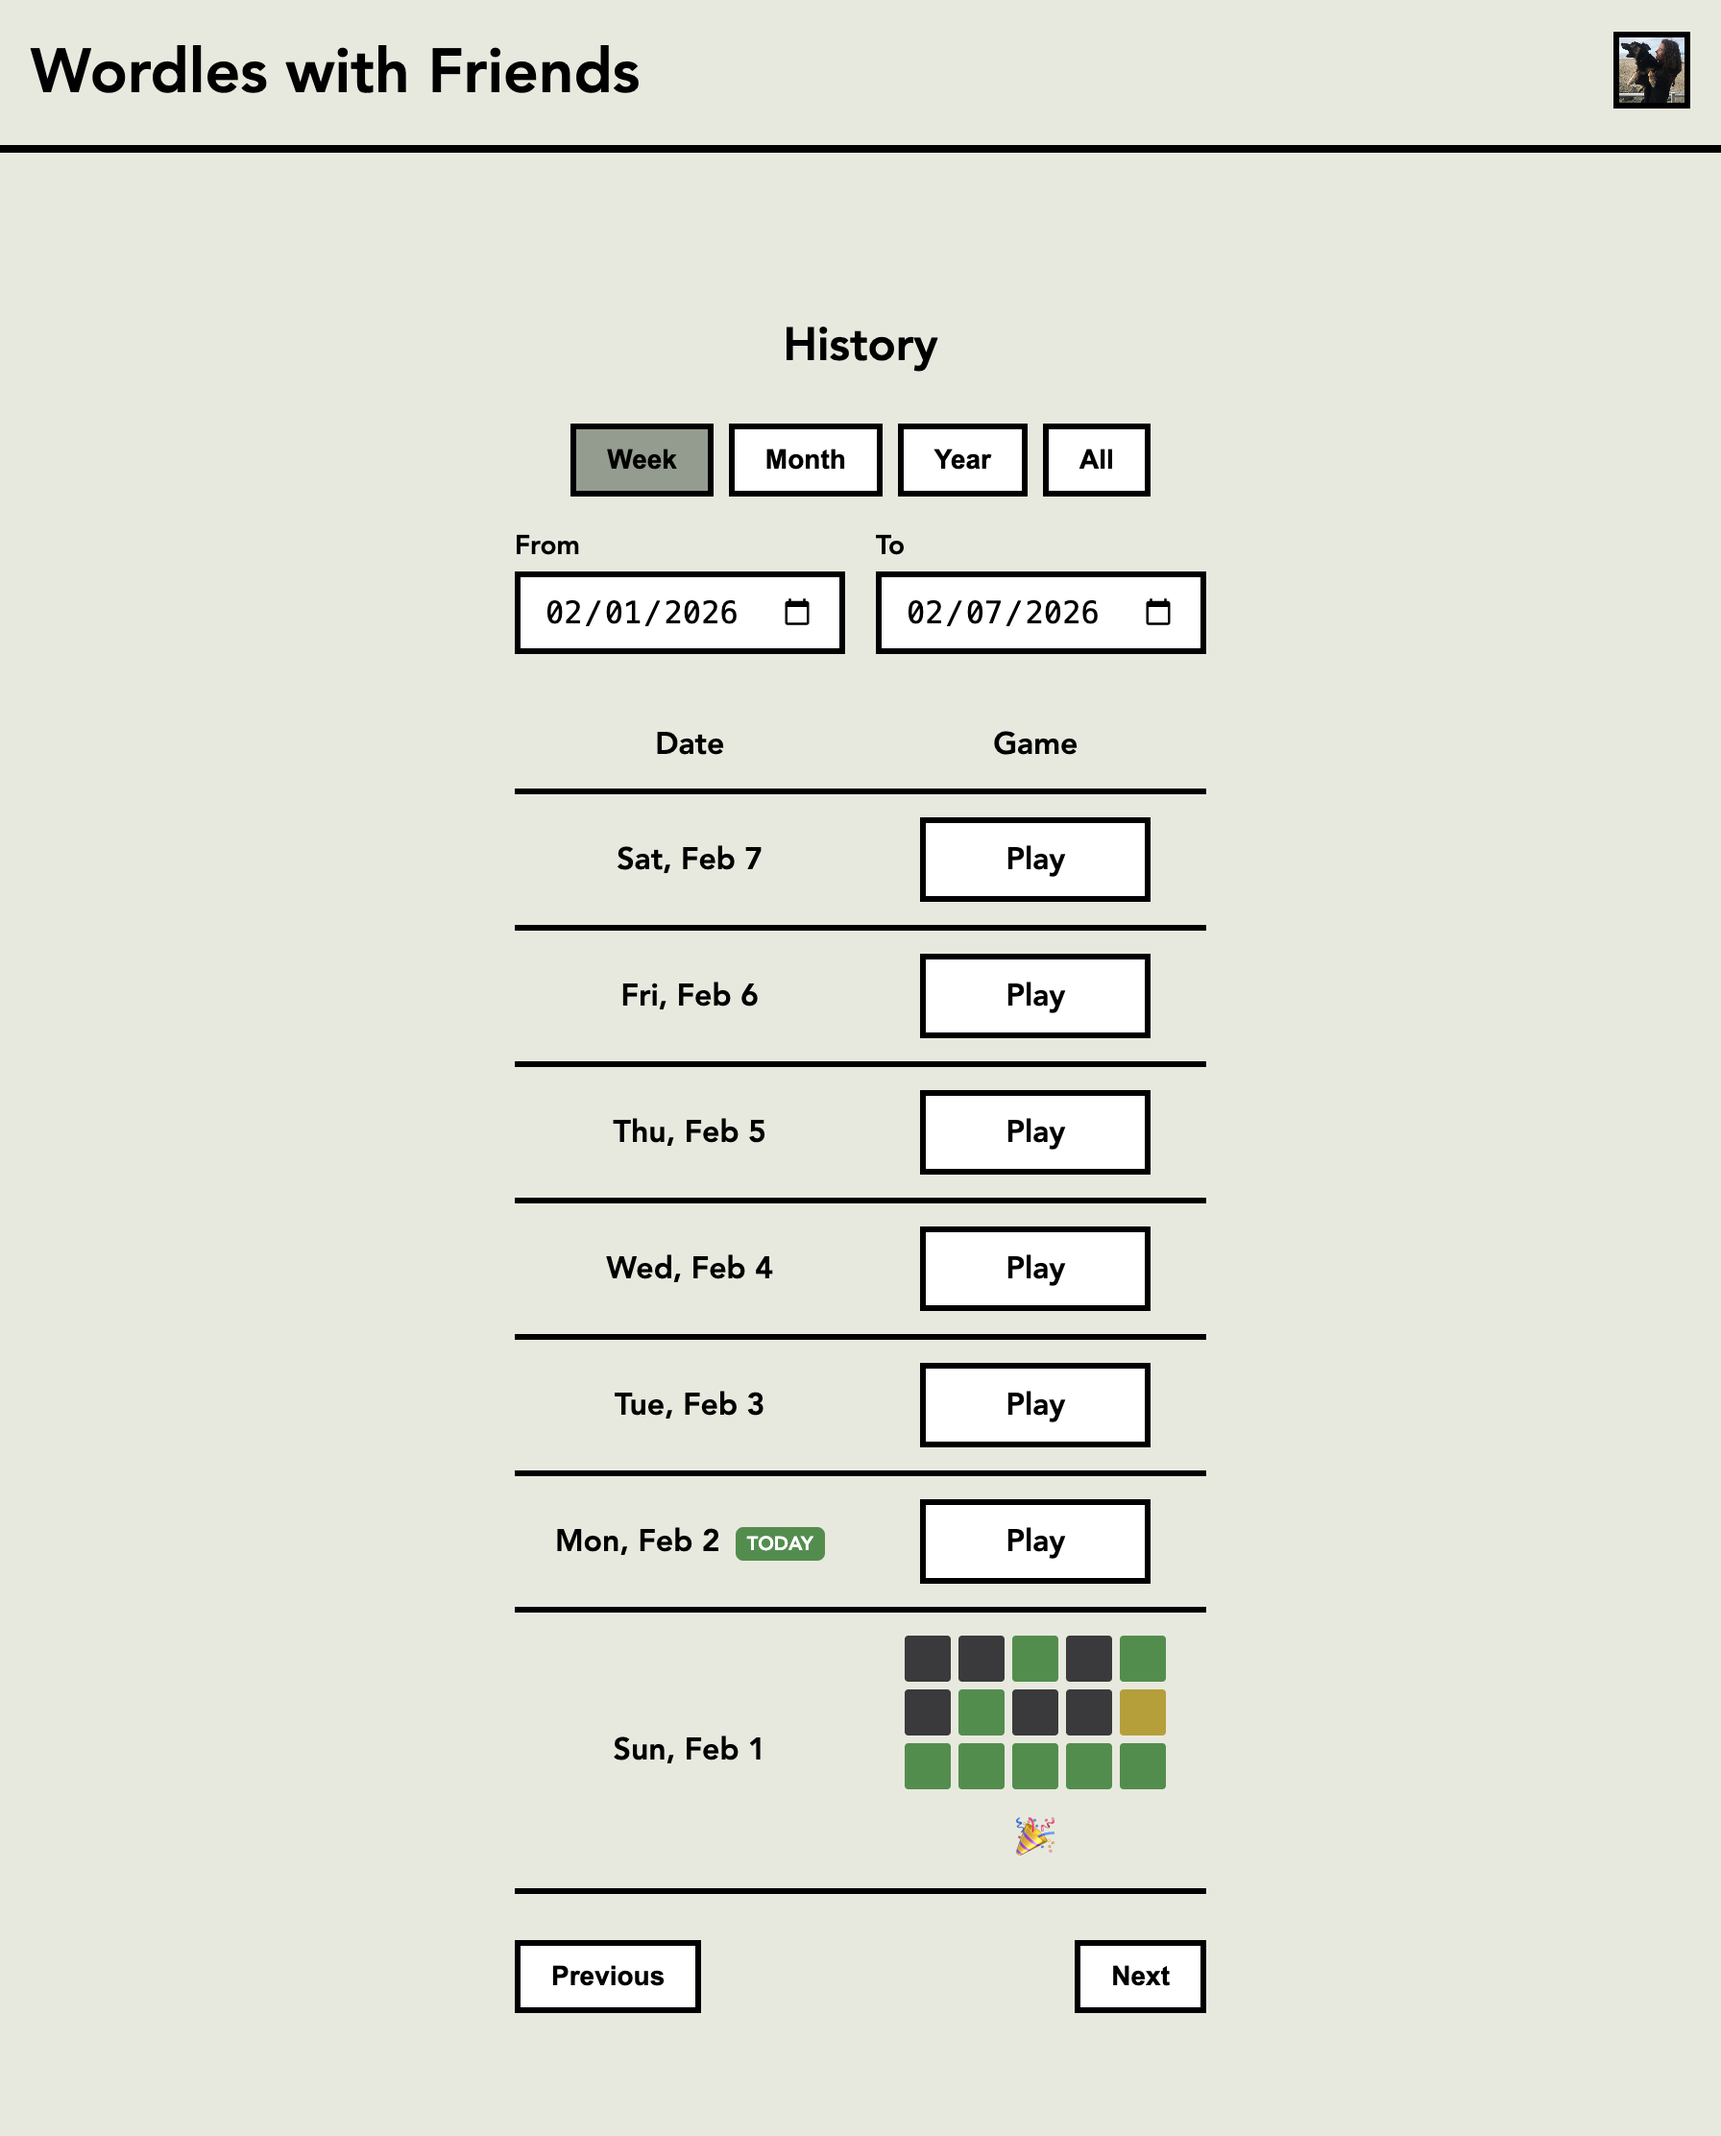
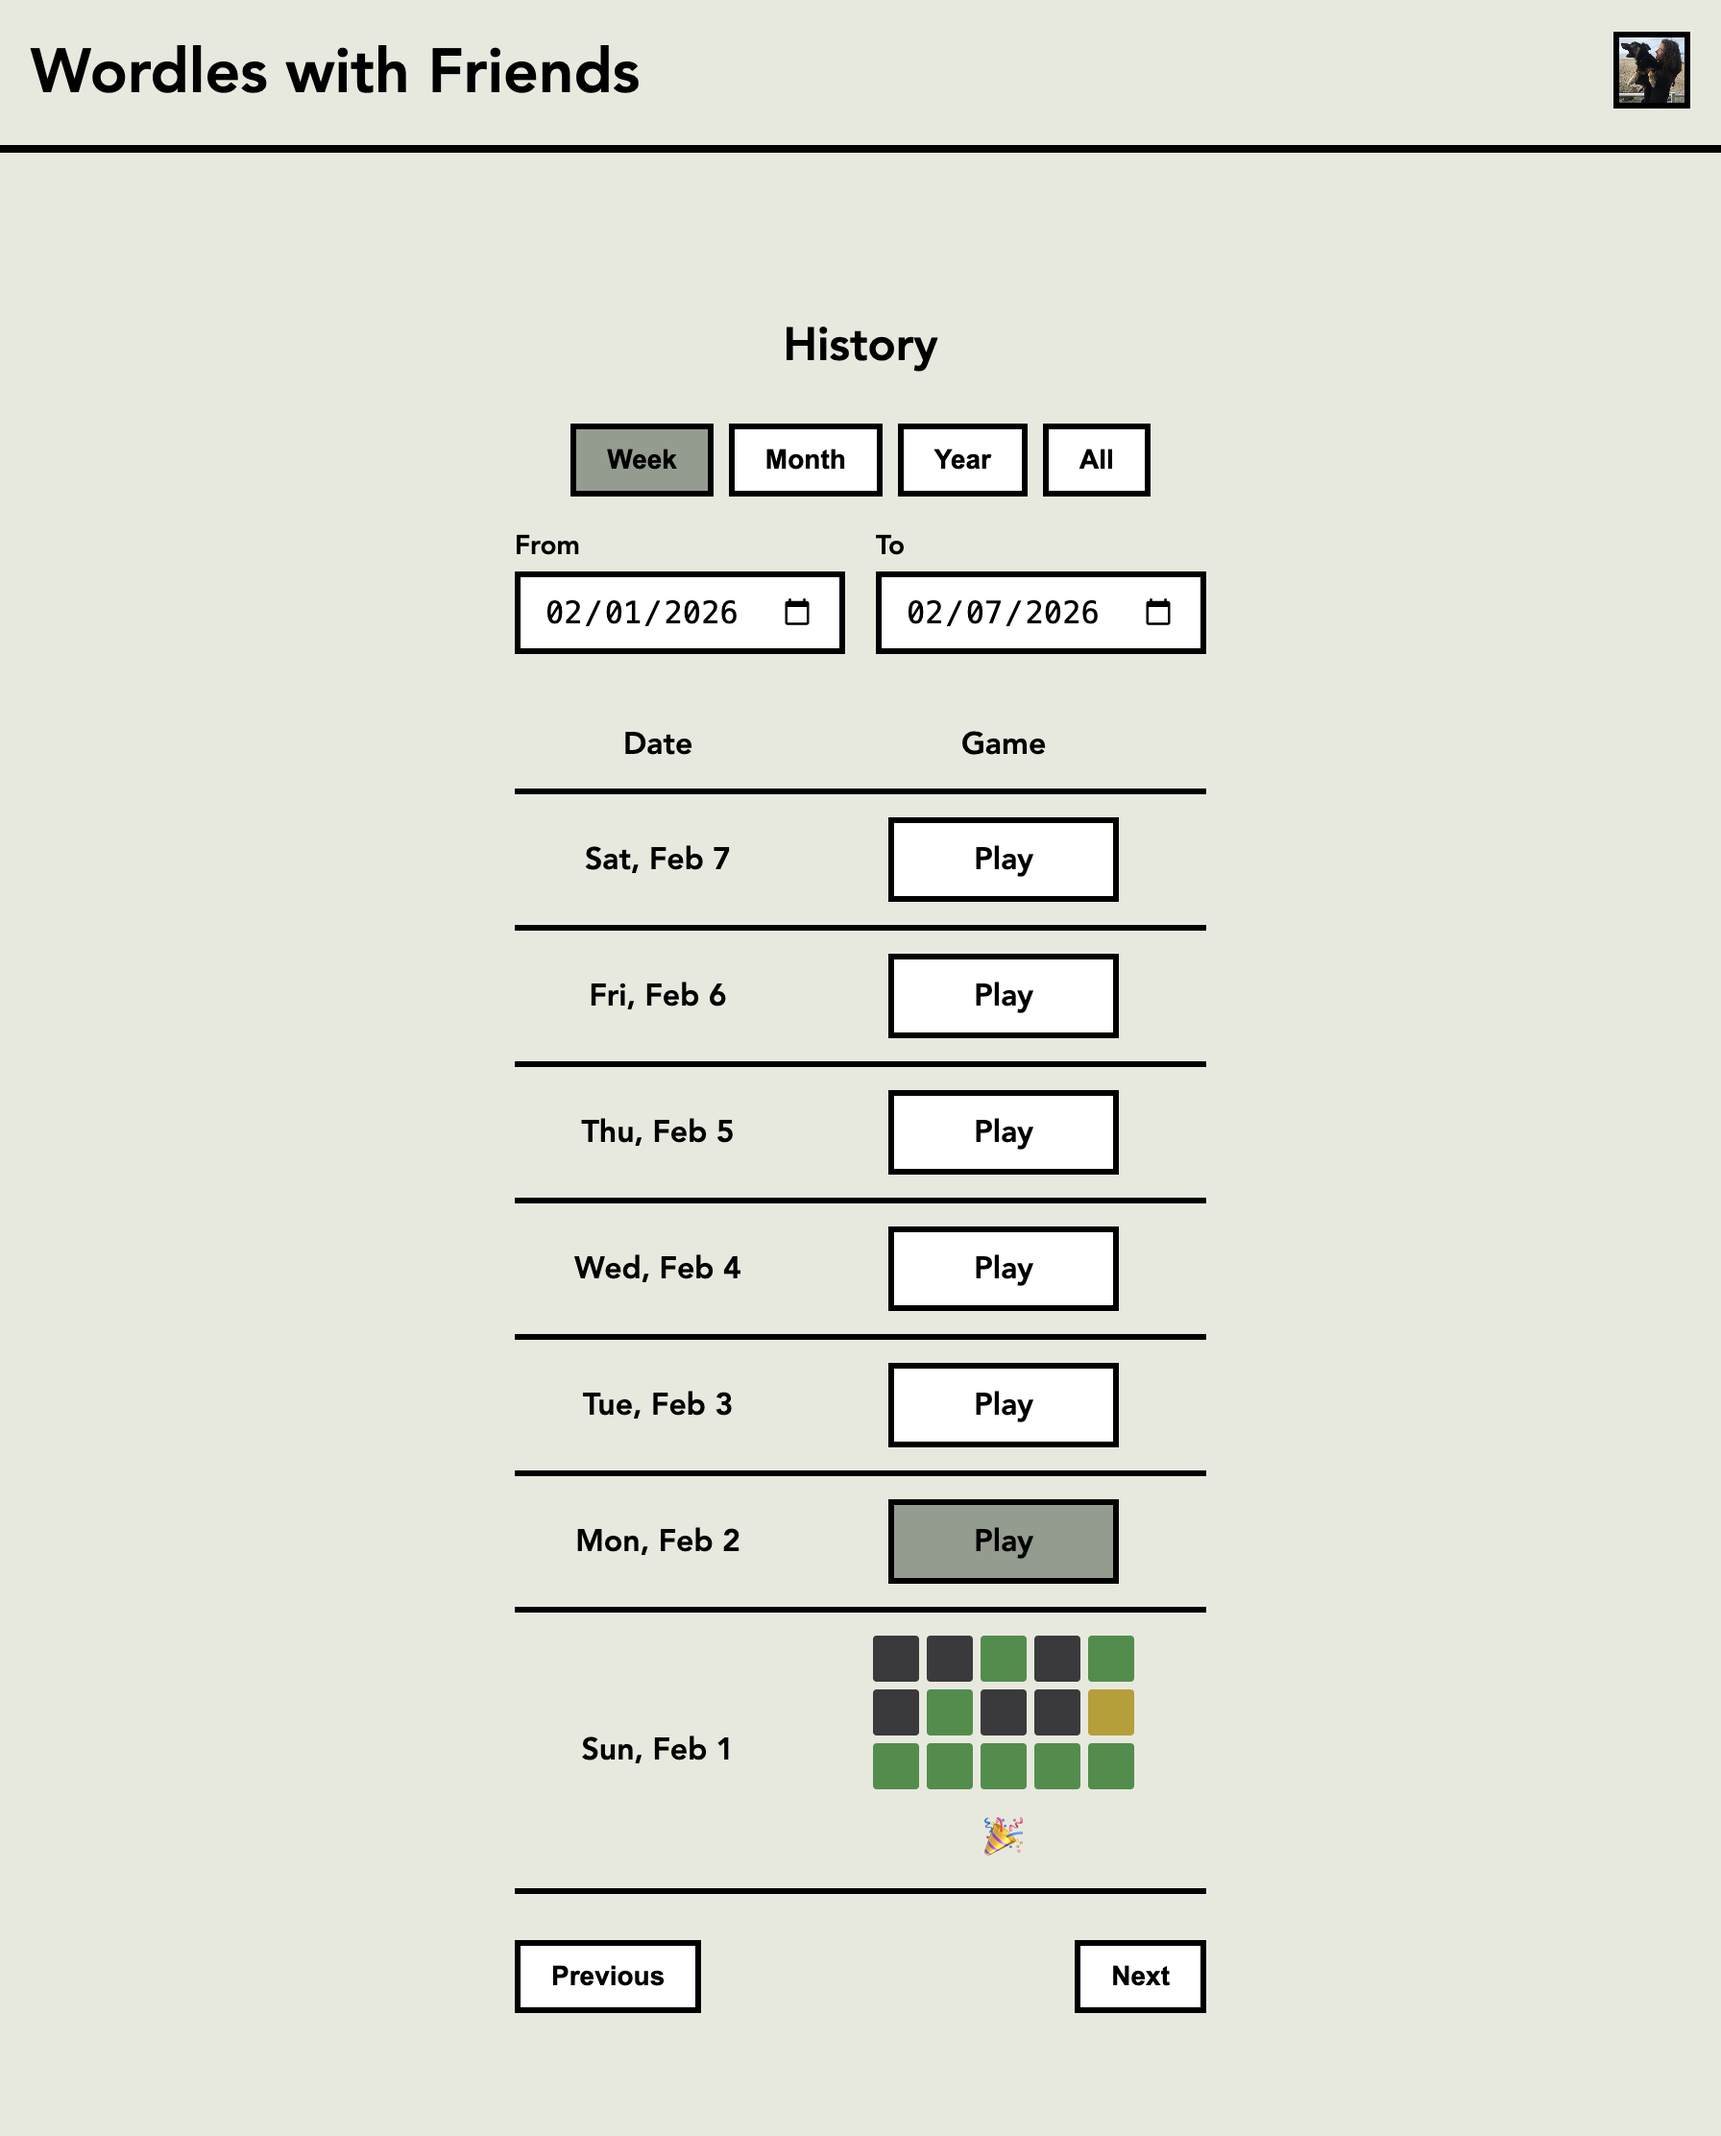
style: Replace Today badge with highlighted Play button
Change the Today indicator from a badge to a darker sage green
background on the Play/Continue button for today's date.

diff --git a/src/pages/ScoreHistoryPage.tsx b/src/pages/ScoreHistoryPage.tsx
@@ -172,11 +172,6 @@ export const ScoreHistoryPage = (): ReactElement => {
               <tr key={entry.puzzle_date}>
                 <td className="score-history-page__date-cell">
                   {formatDateForDisplay(entry.puzzle_date)}
-                  {entry.puzzle_date === today && (
-                    <span className="score-history-page__today-badge">
-                      Today
-                    </span>
-                  )}
                 </td>
                 <td className="score-history-page__game-cell">
                   {entry.played && entry.guesses ? (
@@ -184,12 +179,28 @@ export const ScoreHistoryPage = (): ReactElement => {
                   ) : entry.in_progress && entry.guesses ? (
                     <div className="score-history-page__in-progress">
                       <MiniGameBoard guesses={entry.guesses} />
-                      <Button variant="flat" href={`/${entry.puzzle_date}`}>
+                      <Button
+                        variant="flat"
+                        href={`/${entry.puzzle_date}`}
+                        className={
+                          entry.puzzle_date === today
+                            ? 'score-history-page__today-button'
+                            : ''
+                        }
+                      >
                         Continue
                       </Button>
                     </div>
                   ) : (
-                    <Button variant="flat" href={`/${entry.puzzle_date}`}>
+                    <Button
+                      variant="flat"
+                      href={`/${entry.puzzle_date}`}
+                      className={
+                        entry.puzzle_date === today
+                          ? 'score-history-page__today-button'
+                          : ''
+                      }
+                    >
                       Play
                     </Button>
                   )}

diff --git a/src/pages/ScoreHistoryPage.scss b/src/pages/ScoreHistoryPage.scss
@@ -57,16 +57,10 @@
     vertical-align: middle;
   }
 
-  &__today-badge {
-    background-color: var(--color-correct);
-    color: white;
-    font-size: 0.625rem;
-    font-weight: 700;
-    padding: 2px 6px;
-    border-radius: 4px;
-    text-transform: uppercase;
-    margin-left: 8px;
-    vertical-align: middle;
+  &__today-button {
+    .button__frame {
+      background-color: var(--color-button-shadow);
+    }
   }
 
   &__game-cell {
